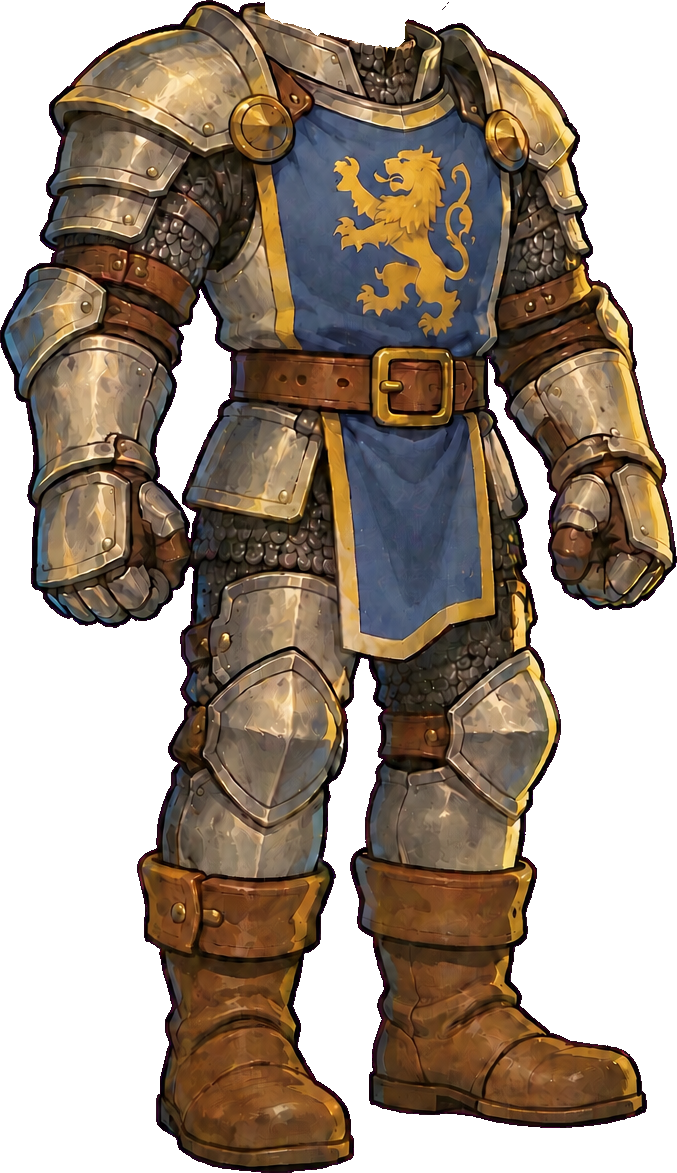
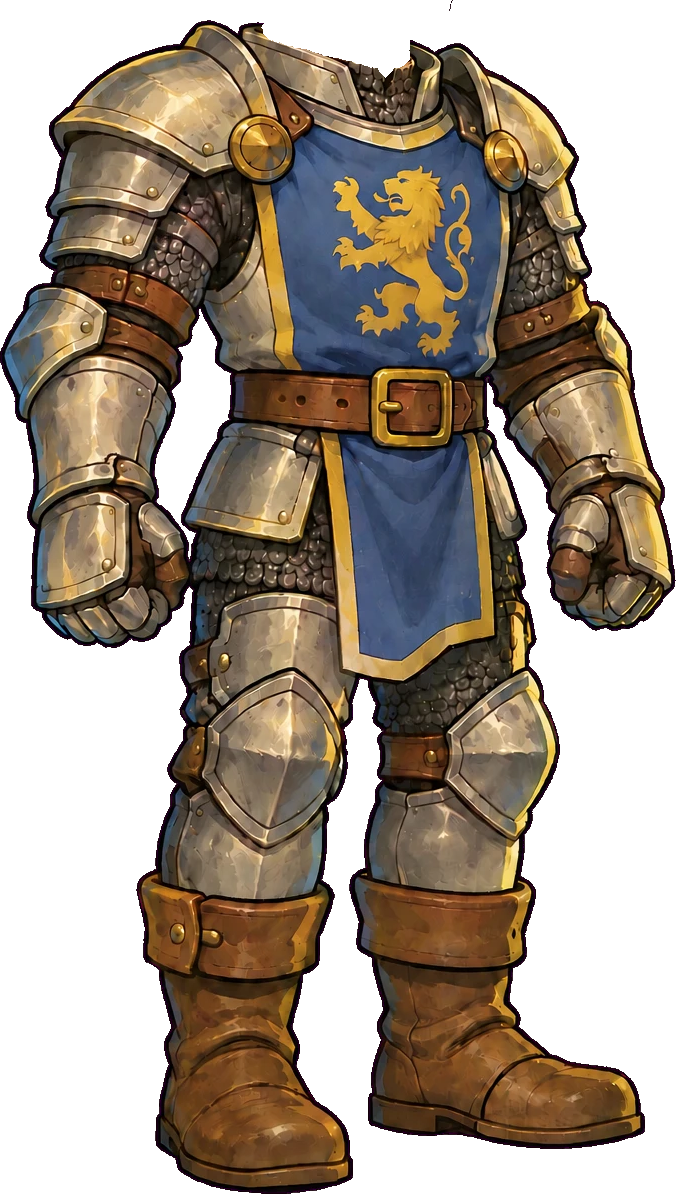
Aldric = male_base; retire Bran and Garrett; park Corwin; face outline check
Bran and Garrett had stubble baked in and weren't made from male_base;
Corwin's head was slimmed so hair floated off his ear and cheek. Aldric's
face and the knight outfit now come from male_base. New check_face.py
grades the head outline (ear and cheek edges) against the base.

diff --git a/preview-character/index.html b/preview-character/index.html
@@ -282,7 +282,7 @@ function fromHash() {
   $('fromSeed').onclick = () => generate(mulberry32(+$('seed').value || 0));
   $('copy').onclick = () => navigator.clipboard && navigator.clipboard.writeText(location.href);
 
-  if (!fromHash()) state = { race: 'human', face: 'aldric', skin: 'fair', outfit: 'knight_m', hair: 'short02', hairCol: 'blond', scar: true };
+  if (!fromHash()) state = { race: 'human', face: 'aldric', skin: 'fair', outfit: 'knight_m', hair: 'm_short', hairCol: 'blond', scar: false };
   sync();
   window.addEventListener('hashchange', () => { if (fromHash()) sync(); });
 })();

diff --git a/tools/check_face.py b/tools/check_face.py
@@ -1,0 +1,54 @@
+"""Pass/fail check for a new face edit against the sex's base reference.
+
+Hair is drawn to hug the base's ear and cheek, so a face only shares hair if its head
+OUTLINE matches the base: skull top, back of head at ear level, front of cheek and
+front at eye level. Overall overlap is not enough (a slimmer head still overlaps ~92%).
+
+Usage: python tools/check_face.py FACE.png [FACE2.png ...] [--base art/template/male_base.png]
+"""
+import argparse
+import sys
+from pathlib import Path
+
+import numpy as np
+
+sys.path.insert(0, str(Path(__file__).resolve().parent))
+import build_preview as bp  # noqa: E402
+
+ROOT = Path(__file__).resolve().parent.parent
+PASS_PX, WARN_PX = 8, 12
+
+
+def profile(path, cut):
+    a = bp.keyed(Path(path))
+    m = bp.head_mask(a, cut) & (a[..., 3] > 0)
+    top = bp.skull(a)[0]
+
+    def edge(dy, side):
+        xs = np.where(m[top + dy])[0]
+        return int(xs.min() if side == "back" else xs.max()) if len(xs) else 0
+    return {"skull top": top, "back @ ear": edge(190, "back"),
+            "front @ eye": edge(150, "front"), "front @ cheek": edge(230, "front")}
+
+
+def main():
+    ap = argparse.ArgumentParser()
+    ap.add_argument("files", nargs="+")
+    ap.add_argument("--base", default=str(ROOT / "art" / "template" / "male_base.png"))
+    ap.add_argument("--cut", type=int, default=345, help="345 male, 332 female")
+    a = ap.parse_args()
+    base = profile(a.base, a.cut)
+    for f in a.files:
+        p = profile(f, a.cut)
+        worst, notes = 0, []
+        for k, v in p.items():
+            d = abs(v - base[k])
+            worst = max(worst, d)
+            if d > PASS_PX:
+                notes.append(f"{k} off by {d}px")
+        verdict = "PASS" if worst <= PASS_PX else "WARN" if worst <= WARN_PX else "FAIL"
+        print(f"{verdict:4s}  {Path(f).stem}" + ("" if not notes else "  - " + ", ".join(notes)))
+
+
+if __name__ == "__main__":
+    main()

diff --git a/tools/build_preview.py b/tools/build_preview.py
@@ -37,23 +37,22 @@ TEMPLATES = {"m": {"cut": 345}, "f": {"cut": 332}}
 
 # id, file, label, template, races it suits (None = any). All lime-skin edits.
 FACES = [
-    ("aldric", "aldric_bluebrow", "Aldric", "m", None),
-    ("bran", "male_face02_cleric", "Bran", "m", None),
-    ("garrett", "garrett_bluebrow", "Garrett", "m", None),
+    ("aldric", "../../template/male_base", "Aldric", "m", None),
+    # retired 2026-10-09 (stubble baked in, not made from male_base): bran, garrett
     ("hobb", "male_hobb", "Hobb", "m", None),
-    ("corwin", "male_corwin", "Corwin", "m", None),
+    # corwin: to be remade on male_base with a neutral expression
     ("pip", "male_pip", "Pip", "m", None),
     ("edric", "male_edric", "Edric", "m", None),
     ("brug", "ogre_lime_01", "Brug", "m", ["ogre"]),
     ("rowan", "rowan_bluebrow", "Rowan", "f", None),
     ("mira", "mira_bluebrow", "Mira", "f", None),
 ]
-BROWS = {"aldric", "garrett", "rowan", "mira", "hobb", "corwin", "pip", "edric"}   # art/parts/brows/brows_<id>.png (blue key)
-SCARS = {"aldric", "garrett"}                     # art/parts/scars/scar_<id>.png (optional layer)
+BROWS = {"aldric", "rowan", "mira", "hobb", "pip", "edric"}   # art/parts/brows/brows_<id>.png (blue key)
+SCARS = set()  # old scars were painted on retired faces; scars come back as generic layers                     # art/parts/scars/scar_<id>.png (optional layer)
 
 # id, file, label, template
 BODIES = [
-    ("knight_m", "aldric_bald_limekey", "Knight plate", "m"),
+    ("knight_m", "../../template/male_base", "Knight plate", "m"),
     ("cleric_m", "aldric_lime_cleric", "Cleric robe", "m"),
     ("guard_m", "ogre_lime_01", "Caravan guard", "m"),
     ("cleric_f", "human_f_lime_01", "Cleric robe", "f"),
